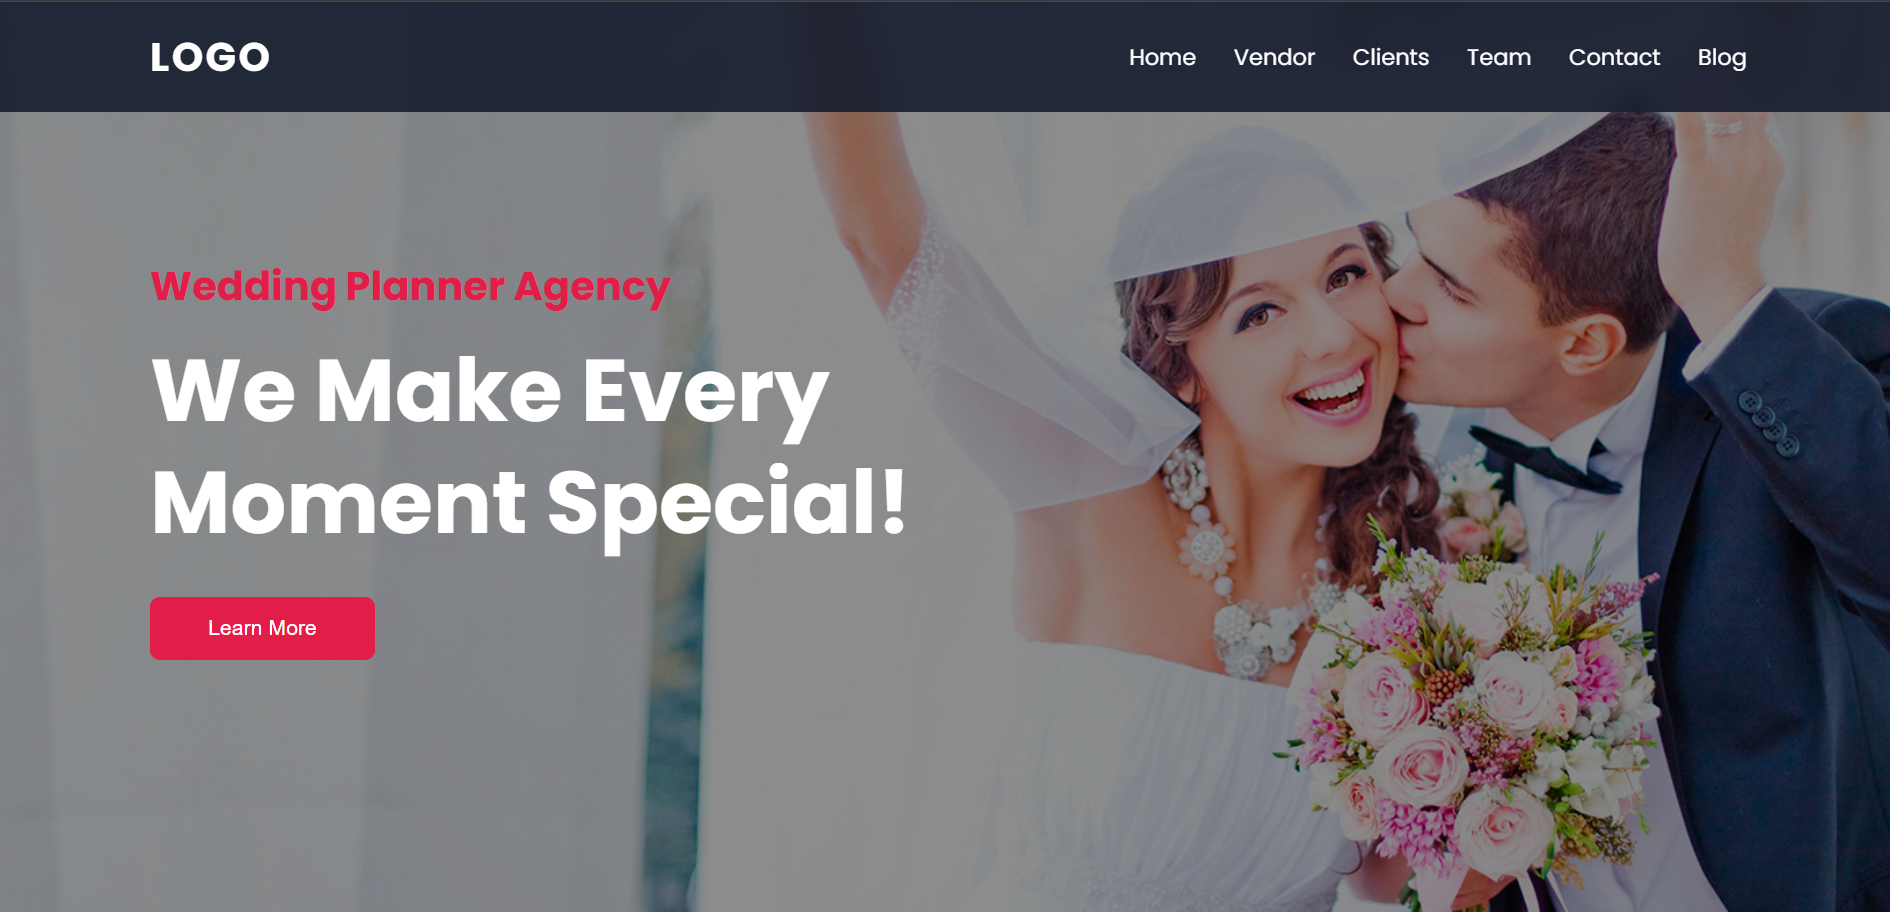
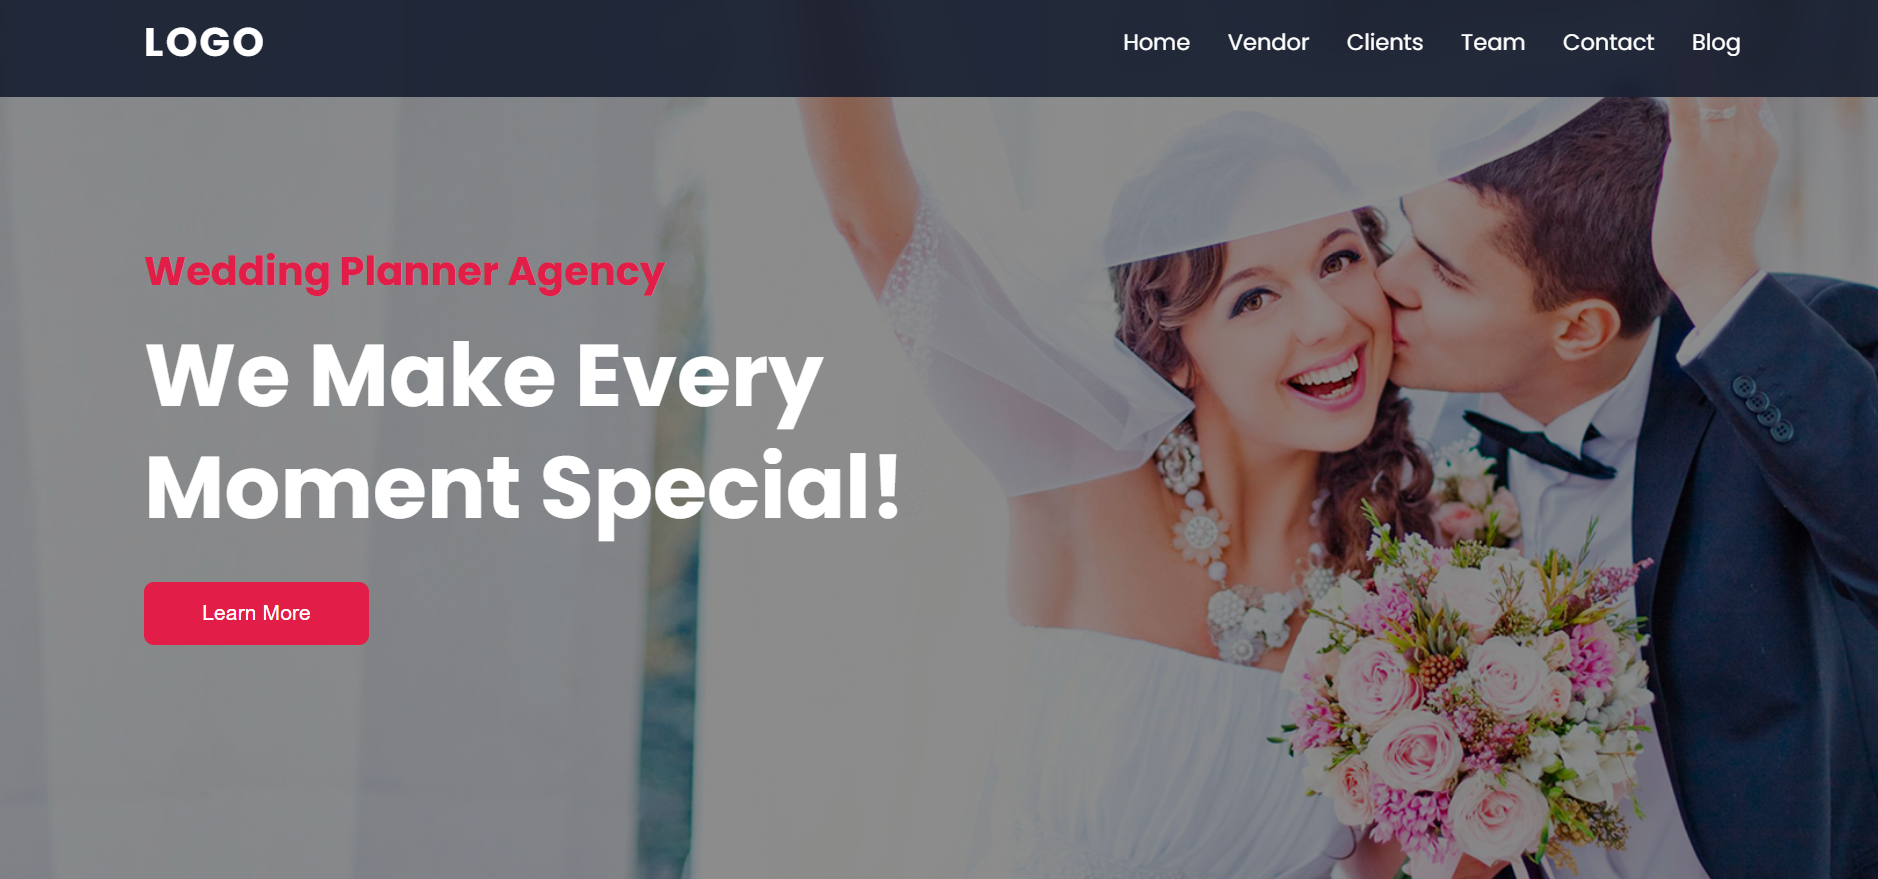
save changes

diff --git a/README.md b/README.md
@@ -40,7 +40,7 @@ The wedding planner website includes several pages related to weddings such as w
 </p>
 
 <p>
-  <img src="./Images/image3.png" />
+  <img src="./Images/image3.pngg" />
 </p>
 
 
